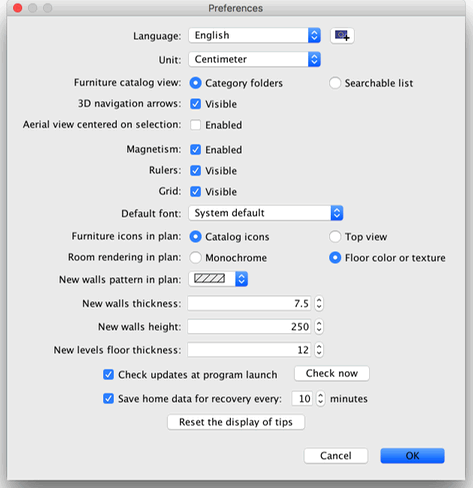
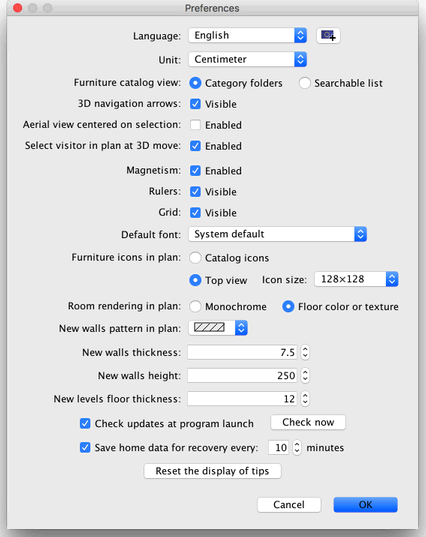
Updated help for version 5.5

diff --git a/trunk/SweetHome3D/src/com/eteks/sweethome3d/viewcontroller/resources/help/fr/editingPreferences.html b/trunk/SweetHome3D/src/com/eteks/sweethome3d/viewcontroller/resources/help/fr/editingPreferences.html
@@ -33,15 +33,29 @@
 	    de Sweet Home 3D et le bouton &agrave; sa droite d'importer des fichiers de langues avec une extensions SH3L.<br>
 	    La liste d&eacute;roulante <i>Unit&eacute;</i> vous permet de choisir l'unit&eacute; utilis&eacute;e
 	    pour dessiner les r&egrave;gles et la grille du plan du
-	    logement, ainsi que pour afficher les longueurs et les aires.	Pour le syst&egrave;me m&eacute;trique, vous pouvez choisir le <i>Millim&egrave;tre</i>, le <i>Centim&egrave;tre</i> ou le  <i>M&egrave;tre</i>, et le syst&egrave;me imp&eacute;rial propose les deux unit&eacute;s suivantes&nbsp;: l'unit&eacute; <i>Pouce/D&eacute;cimales</i> qui affiche une longueur seulement en pouces suivie des d&eacute;cimales de pouce, comme dans <b>250.122&quot;</b> et l'unit&eacute; <i>Pied/Pouce/Fraction</i> qui affiche une longueur en pieds et pouces suivie de la fraction d'un huiti&egrave;me de pouce la plus proche, comme dans <b>20'10&#8539;&quot;</b>. Dans le dernier cas, une partie fractionnaire saisie avec des d&eacute;cimales et une valeur en pouce sup&eacute;rieure ou &eacute;gale &agrave; 12 seront automatiquement converties&nbsp;; par exemple, si vous saisissez <b>15.75</b>, le programme comprendra <b>1'3&#190&quot;</b>, et pour  <b>2'15</b>, ce sera interpr&eacute;t&eacute; comme <b>3'3&quot;</b>. Vous pouvez utiliser aussi le symbole <b>/</b> dans la fraction apr&egrave;s une valeur en pouce, comme dans <b>1 3/4</b>, que le programme interpr&eacute;tera comme <b>1&#190&quot;</b>. Pour les aires, l'unit&eacute; <i>Pied/Pouce/Fraction</i> affiche toujours la valeur la plus proche en pieds carr&eacute;, tandis que l'unit&eacute; <i>Pouce/D&eacute;cimales</i> affiche des d&eacute;cimales 
+	    logement, ainsi que pour afficher les longueurs et les aires.	Pour le syst&egrave;me m&eacute;trique, vous pouvez choisir le <i>Millim&egrave;tre</i>, 
+	    le <i>Centim&egrave;tre</i> ou le  <i>M&egrave;tre</i>, et le syst&egrave;me imp&eacute;rial propose les deux unit&eacute;s suivantes&nbsp;: 
+	    l'unit&eacute; <i>Pouce/D&eacute;cimales</i> qui affiche une longueur seulement en pouces suivie des d&eacute;cimales de pouce, comme dans <b>250.122&quot;</b> 
+	    et l'unit&eacute; <i>Pied/Pouce/Fraction</i> qui affiche une longueur en pieds et pouces suivie de la fraction d'un huiti&egrave;me de pouce la plus proche, 
+	    comme dans <b>20'10&#8539;&quot;</b>. Dans le dernier cas, une partie fractionnaire saisie avec des d&eacute;cimales et une valeur en pouce sup&eacute;rieure 
+	    ou &eacute;gale &agrave; 12 seront automatiquement converties&nbsp;; par exemple, si vous saisissez <b>15.75</b>, le programme comprendra <b>1'3&#190&quot;</b>, 
+	    et pour  <b>2'15</b>, ce sera interpr&eacute;t&eacute; comme <b>3'3&quot;</b>. Vous pouvez utiliser aussi le symbole <b>/</b> dans la fraction apr&egrave;s une valeur en pouce, 
+	    comme dans <b>1 3/4</b>, que le programme interpr&eacute;tera comme <b>1&#190&quot;</b>. Pour les aires, l'unit&eacute; <i>Pied/Pouce/Fraction</i> affiche toujours 
+	    la valeur la plus proche en pieds carr&eacute;, tandis que l'unit&eacute; <i>Pouce/D&eacute;cimales</i> affiche des d&eacute;cimales 
 	    si besoin.</p>
-<p> Les boutons radio <i>Dossiers de cat&eacute;gorie </i>et <i>Liste 
+		<p> Les boutons radio <i>Dossiers de cat&eacute;gorie </i>et <i>Liste 
           avec recherche </i>permettent de choisir le mode d'affichage du catalogue 
-          de meubles dans chaque <a href="ui.html">fen&ecirc;tre Sweet Home 3D</a>.        </p>
-	    <p>	      La bo&icirc;te &agrave; cocher <i>Fl&egrave;ches de navigation 3D</i> permet d'afficher ou non les boutons en forme de fl&egrave;ches d'aide 
+          de meubles dans chaque <a href="ui.html">fen&ecirc;tre Sweet Home 3D</a>.</p>
+	    <p>La bo&icirc;te &agrave; cocher <i>Fl&egrave;ches de navigation 3D</i> permet d'afficher ou non les boutons en forme de fl&egrave;ches d'aide 
           &agrave; la <a href="editing3DView.html">navigation dans la vue 3D</a>.<br>
-          Quand elle est activ&eacute;e, l'option <i>Vue a&eacute;rienne centr&eacute;e sur la s&eacute;lection</i> centrera la vue a&eacute;rienne 3D sur les &eacute;l&eacute;ments s&eacute;lectionn&eacute;s dans le plan 2D. Si aucun &eacute;l&eacute;ment n'est s&eacute;lectionn&eacute; ou si cette option est d&eacute;sactiv&eacute;e, 
-          la vue a&eacute;rienne sera centr&eacute;e sur le mileu du logement, qui peut changer en fonction de son contenu.</p>
+          Quand elle est activ&eacute;e, l'option <i>Vue a&eacute;rienne centr&eacute;e sur la s&eacute;lection</i> centrera 
+          la vue a&eacute;rienne 3D sur les &eacute;l&eacute;ments s&eacute;lectionn&eacute;s dans le plan 2D. 
+          Si aucun &eacute;l&eacute;ment n'est s&eacute;lectionn&eacute; ou si cette option est d&eacute;sactiv&eacute;e, 
+          la vue a&eacute;rienne sera centr&eacute;e sur le mileu du logement, qui peut changer en fonction de son contenu.<br>
+          Quand elle est activ&eacute;e, l'option <i>S&eacute;lection visiteur apr&egrave;s mouvement 3D</i> entra&icirc;nera 
+          une s&eacute;lection et un affichage du visiteur virtuel dans le plan 2D &agrave; chaque fois que vous faites un mouvement 
+          dans la vue 3D en mode <i>Visite virtuelle</i>. D&eacute;s&eacute;lectionnez cette option si vous ne voulez pas perdre 
+          la s&eacute;lection en cours dans le plan et/ou modifier la zone visible du plan &agrave; chaque mouvement dans la vue 3D.</p>
 	    <p>La bo&icirc;te &agrave; cocher <i>Magn&eacute;tisme</i> active ou 
           d&eacute;sactive le magn&eacute;tisme utilis&eacute; dans le plan du 
           logement au cours du positionnement des meubles, et du dessin des murs, des pi&egrave;ces et des cotes.<br>
@@ -50,10 +64,16 @@
           &agrave; gauche du plan.<br>
           La bo&icirc;te &agrave; cocher <i>Grille</i> permet de rendre visible 
           ou invisible la grille affich&eacute;e sous le plan.<br>
-          La liste d&eacute;roulante <i>Police par d&eacute;faut</i> permet de choisir la police de caract&egrave;re utilis&eacute;e pour les textes affich&eacute;s dans le plan (i.e. nom des <a href="editingFurniture.html">meubles</a>, nom et superficie des <a href="editingRooms.html">pi&egrave;ces</a>, longueur des <a href="editingDimensions.html">cotes</a> et police par d&eacute;faut des <a href="addingTexts.html">textes</a>).<br>
+          La liste d&eacute;roulante <i>Police par d&eacute;faut</i> permet de choisir la police de caract&egrave;re utilis&eacute;e 
+          pour les textes affich&eacute;s dans le plan (i.e. nom des <a href="editingFurniture.html">meubles</a>, nom et superficie 
+          des <a href="editingRooms.html">pi&egrave;ces</a>, longueur des <a href="editingDimensions.html">cotes</a> 
+          et police par d&eacute;faut des <a href="addingTexts.html">textes</a>).<br>
           Les boutons radio <i>Ic&ocirc;nes du catalogue</i> et <i>Vue de dessus</i> 
           permettent de choisir comment seront dessin&eacute;s les meubles dans 
-          le plan (voir les images ci-dessous).<br>
+          le plan (voir les images ci-dessous). Quand l'option <i>Vue de dessus</i> est s&eacute;lectionn&eacute;e, la liste d&eacute;roulante 
+          <i>Taille ic&ocirc;nes</i> vous permet de choisir la taille en pixel des ic&ocirc;nes dessin&eacute;es dans le plan 2D. 
+          Une taille plus grande donnera un meilleur r&eacute;sultat dans les plans dessin&eacute;s &agrave; l'&eacute;cran, imprim&eacute;s 
+          et export&eacute;s au format SVG, mais requ&eacute;rera plus de m&eacute;moire pour fonctionner.<br>
           Les boutons radio <i></i><i>Monochrome</i> et <i>Couleur ou texture 
           du plancher</i> permettent de choisir si les pi&egrave;ces doivent &ecirc;tre 
           remplies dans le plan avec la couleur ou de la texture que vous avez 
@@ -64,9 +84,11 @@
 	        une fois que le panneau des pr&eacute;f&eacute;rences sera ferm&eacute;.<br>
           La valeur de la <i>Hauteur des nouveaux murs</i> d&eacute;termine la hauteur des futurs murs.<br>
           La valeur de l'<i>Epaisseur des nouveaux planchers</i> d&eacute;termine l'&eacute;paisseur des planchers des futurs niveaux.</p>
-<p>Si elle est s&eacute;lectionn&eacute;e, l'option <i>V&eacute;rifier les mises &agrave; jour au lancement du programme</i> v&eacute;rifiera si des mises &agrave; jours de Sweet Home 3D sont disponibles ou non &agrave; chaque fois que le programme est  lanc&eacute;, 
-  et affichera des informations sur celles-ci dans une bo&icirc;te de dialogue. Cette option v&eacute;rifie aussi la disponibilit&eacute; de mises &agrave; jours pour les biblioth&egrave;ques de meubles (fichiers SH3F), les biblioth&egrave;ques de textures (fichiers SH3T), les fichiers de langues (fichiers SH3L) et les plug-ins 
-  (fichiers SH3P) que vous avez install&eacute;s, en fonction de leur configuration. </p>	  
+		<p>Si elle est s&eacute;lectionn&eacute;e, l'option <i>V&eacute;rifier les mises &agrave; jour au lancement du programme</i> v&eacute;rifiera si des mises &agrave; jours 
+		  de Sweet Home 3D sont disponibles ou non &agrave; chaque fois que le programme est  lanc&eacute;, 
+  		  et affichera des informations sur celles-ci dans une bo&icirc;te de dialogue. Cette option v&eacute;rifie aussi la disponibilit&eacute; de mises &agrave; jours 
+  		  pour les biblioth&egrave;ques de meubles (fichiers SH3F), les biblioth&egrave;ques de textures (fichiers SH3T), les fichiers de langues (fichiers SH3L) et les plug-ins 
+  		  (fichiers SH3P) que vous avez install&eacute;s, en fonction de leur configuration. </p>	  
 	  <p>La valeur du champ associ&eacute; &agrave; la bo&icirc;te &agrave; 
           cocher <i>Enregistrer les donn&eacute;es de r&eacute;cup&eacute;ration</i> 
           d&eacute;termine le d&eacute;lai en minutes qui s'&eacute;coule entre 
@@ -151,7 +173,8 @@
               <td width="16"><p>&#149;</p></td>
               <td><p>Les  informations sur les mises &agrave; jour ne peuvent &ecirc;tre obtenues que si votre ordinateur a acc&egrave;s &agrave; Internet. 
               En cas de doute, cliquez sur le bouton <i>V&eacute;rifier maintenant</i> pour afficher les mises &agrave; jour disponibles, 
-              ou un message sp&eacute;cifiant qu'aucune mise &agrave; jour n'est disponible, ou un message d'erreur stipulant que les mises &agrave; jour n'ont pu &ecirc;tre lues.</p></td>
+              ou un message sp&eacute;cifiant qu'aucune mise &agrave; jour n'est disponible, ou un message d'erreur stipulant que les mises &agrave; jour 
+              n'ont pu &ecirc;tre lues.</p></td>
             </tr>
           </table></td>
 	</tr>

diff --git a/trunk/SweetHome3D/src/com/eteks/sweethome3d/viewcontroller/resources/help/fr/editingFurniture.html b/trunk/SweetHome3D/src/com/eteks/sweethome3d/viewcontroller/resources/help/fr/editingFurniture.html
@@ -72,14 +72,15 @@
                       <td nowrap><p>1.</p>
                       </td>
                       <td><p>L'indicateur de rotation montre le coin que vous pouvez glisser-d&eacute;poser pour tourner le meuble
-                          s&eacute;lectionn&eacute;.</p>
+                          s&eacute;lectionn&eacute; autour de l'axe vertical.</p>
                       </td>
                     </tr>
                     <tr valign="top">
                       <td nowrap><p>2.</p>
                       </td>
                       <td><p>L'indicateur d'&eacute;l&eacute;vation montre le coin que vous pouvez glisser-d&eacute;poser pour monter ou descendre
-                          le meuble s&eacute;lectionn&eacute; (par rapport &agrave; l'&eacute;l&eacute;vation du niveau auquel le meuble a &eacute;t&eacute; ajout&eacute; si le logement contient <a href="addingLevels.html">plusieurs niveaux</a>).</p>
+                          le meuble s&eacute;lectionn&eacute; (par rapport &agrave; l'&eacute;l&eacute;vation du niveau auquel le meuble a 
+                          &eacute;t&eacute; ajout&eacute; si le logement contient <a href="addingLevels.html">plusieurs niveaux</a>).</p>
                       </td>
                     </tr>
                     <tr valign="top">
@@ -87,10 +88,10 @@
                       </td>
                       <td><p>L'indicateur de hauteur montre le coin que vous pouvez 
                   glisser-d&eacute;poser pour modifier la hauteur du meuble s&eacute;lectionn&eacute;.<br>
-                  Pour les lumi&egrave;res (soit une source lumineuse ou une lampe 
-                  contenant des sources lumineuses), cet indicateur devient un 
-                  variateur de lumi&egrave;re. Si vous voulez modifier la hauteur 
-                  de cette lumi&egrave;re, &eacute;ditez ses attributs comme indiqu&eacute; 
+                  Si l'angle de rotation du meuble autour d'un axe horizontal n'est pas nul, cet indicateur vous permet de modifier 
+                  cet angle plut&ocirc;t que la hauteur du meuble. Pour les lumi&egrave;res (soit une source lumineuse ou une lampe 
+                  contenant des sources lumineuses), cet indicateur devient un variateur de lumi&egrave;re. Si vous voulez modifier la hauteur 
+                  de ces objets, &eacute;ditez ses attributs comme indiqu&eacute; 
                   dans le paragraphe suivant.</p>
                 </td>
                     </tr>
@@ -98,7 +99,9 @@
                       <td nowrap><p>4.</p>
                       </td>
                       <td><p>L'indicateur de taille montre le coin que vous pouvez glisser-d&eacute;poser pour modifier
-                          la largeur et la profondeur du meuble s&eacute;lectionn&eacute;.</p>
+                          la largeur et la profondeur du meuble s&eacute;lectionn&eacute;. L'utilisation de cet indicateur sur un 
+                          meuble pivot&eacute; autour d'un axe horizontal ou en maintenant la touche <i>Majuscule</i> enfonc&eacute;e
+                          modifiera proportionnellement la largeur, la profondeur et la hauteur du meuble s&eacute;lectionn&eacute;.</p>
                       </td>
                     </tr>
                   </table>
@@ -115,13 +118,14 @@ Les meubles modifi&eacute;s avec la souris sont dessin&eacute;s simultan&eacute;
 	  <p>Un meuble peut &ecirc;tre aussi modifi&eacute;  gr&acirc;ce &agrave; son panneau, en double-cliquant sur ce meuble dans le plan
 	    du logement ou dans la liste des meubles, ou en choisissant <i>Meubles &gt; Modifier...</i> apr&egrave;s l'avoir s&eacute;lectionn&eacute;.</p>
 	    <p align="center"><img src="images/editingFurniture.png" alt="Modification de meubles"></p>
-	    <p>Dans le panneau du meuble, vous pouvez changer son nom, son angle de 
+	    <p>Dans le panneau du meuble, vous pouvez changer son nom, ses angles de 
           rotation, l'abscisse (X) et l'ordonn&eacute;e (Y) de son centre, l'&eacute;l&eacute;vation 
           de sa face inf&eacute;rieure par rapport au sol, sa largeur, sa profondeur, 
           sa hauteur, sa couleur ou sa texture, sa brillance, sa visibilit&eacute;, 
           si son nom doit &ecirc;tre affich&eacute; dans le plan ou non, et le 
           fait que la forme de son mod&egrave;le 3D soit celle par d&eacute;faut 
-          ou son miroir. <br>
+          ou son miroir. Il n'est pas possible de pivoter les portes, les fen&ecirc;tres, les escaliers et les groupes 
+          autour d'un axe horizontal.<br>
 	     Si vous rendez un meuble invisible, il ne sera pas dessin&eacute; dans le plan du logement et dans
 	     la vue 3D, mais il continuera d'appara&icirc;tre dans
 	    la liste des meubles pour vous permettre de le rendre &agrave; nouveau visible ult&eacute;rieurement.

diff --git a/trunk/SweetHome3D/src/com/eteks/sweethome3d/viewcontroller/resources/help/en/editingFurniture.html b/trunk/SweetHome3D/src/com/eteks/sweethome3d/viewcontroller/resources/help/en/editingFurniture.html
@@ -65,7 +65,8 @@
                     <tr valign="top">
                       <td nowrap><p>1.</p>
                       </td>
-                      <td><p>The rotation indicator shows the corner you can drag  to rotate  the selected piece.</p>
+                      <td><p>The rotation indicator shows the corner you can drag  to rotate  the selected piece 
+                      around the vertical axis.</p>
                       </td>
                     </tr>
                     <tr valign="top">
@@ -81,17 +82,19 @@
                       </td>
                       <td><p>The height indicator shows the corner you can drag 
                   to change the height of the selected piece.<br>
-                  If the piece of furniture is a light source or a lamp containing 
+                    If the rotation angle of the  piece around an horizontal axis isn't zero, this indicator lets you update 
+                    this angle rather than the height of the  piece. If the piece of furniture is a light source or a lamp containing 
                   light sources, this indicator is a light dimmer. If you want 
-                  to modify the height of such objects, edit its attributes as indicated 
+                  to modify the height  of such objects, edit its attributes as indicated 
                   in the next paragraph.</p>
-                      </td>
+                  	  </td>
                     </tr>
                     <tr valign="top">
                       <td nowrap><p>4.</p>
                       </td>
                       <td><p>The size indicator shows the corner you can drag  to change the width and the depth
-                          of the selected piece.</p>
+                          of the selected piece. Dragging this indicator  on a horizontally rotated piece or while pressing the <i>Shift</i> 
+                          key will proportionally update the width, depth and height of the selected piece. </p>
                       </td>
                     </tr>
                   </table>
@@ -111,9 +114,9 @@
 	    <p>In the furniture pane, you may change its name, the abscissa (X) and 
           the ordinate (Y) of its center, the elevation of its bottom from the 
           floor, its width, its depth, its height, its color or its texture, its 
-          shininess, its visibility, its rotation angle, whether its name should 
+          shininess, its visibility, its rotation angles, whether its name should 
           be displayed in plan or not, and whether its 3D model shape should be 
-          mirrored.<br>
+          mirrored. It's not possible to rotate doors, windows, staircases and groups around an horizontal axis.<br>
 	    If you make a piece invisible, it won't be drawn in the home plan
 	    and the 3D view, but it will
 	    still appear in the furniture list to let you make it visible again later.<br>

diff --git a/trunk/SweetHome3D/src/com/eteks/sweethome3d/viewcontroller/resources/help/en/editingPreferences.html b/trunk/SweetHome3D/src/com/eteks/sweethome3d/viewcontroller/resources/help/en/editingPreferences.html
@@ -54,8 +54,12 @@
         view</a>.<br>
         When enabled, the  <i>Aerial view centered on selection</i> option will center the 3D aerial view 
         on the selected items in the 2D plan. If no item is selected or if this option is disabled, 
-        the aerial view will be centered on the center of the home, that may vary according to the items it contains. </p>
-        <p> The <i>Magnetism</i> check box enables or disables the magnetism used 
+        the aerial view will be centered on the center of the home, that may vary according to the items it contains. <br>
+        When enabled, the <i>Select visitor in plan at 3D move</i> option will	select and display the virtual visitor 
+        drawn in the 2D plan each time you make a move in the 3D view in <i>Virtual visit</i> mode. 
+        You should unselect this option if you don't want to lose the current selection in the plan and/or change 
+        the visible part of the plan at each move in the 3D view.</p>
+      <p>The <i>Magnetism</i> check box enables or disables the magnetism used 
           in the home plan during <a href="drawingWalls.html">walls drawing</a> 
           and <a href="editingFurniture.html">furniture placing</a>.<br>
           The <i>Rulers</i> check box allows to make the rulers around the plan 
@@ -66,7 +70,10 @@
         (i.e. <a href="editingFurniture.html">furniture</a> name, <a href="editingRooms.html">rooms</a> name and area, 
         <a href="editingDimensions.html">dimension lines</a> length and default font of free <a href="addingTexts.html">texts</a>).<br>
           The <i>Catalog icons</i> and <i>Top view</i> radio buttons let you choose 
-          how the furniture should be drawn in the plan (see images below).<br>
+          how the furniture should be drawn in the plan (see images below). When the <i>Top view</i> option is selected, 
+          the <i>Icon size</i> drop down list lets you select the size in pixels of the icons drawn in the 2D plan. 
+          Higher sizes will give nicer plans when drawn at screen, printed and exported to SVG format, 
+          but will require more memory to work.<br>
           The <i>Monochrome</i> and <i>Floor color or texture</i> radio buttons 
           let you choose whether rooms should be drawn in plan filled with the 
           color or texture you chose for their floor, or with a grey color (printed 

diff --git a/trunk/SweetHome3D/src/com/eteks/sweethome3d/viewcontroller/resources/help/fr/creatingHome.html b/trunk/SweetHome3D/src/com/eteks/sweethome3d/viewcontroller/resources/help/fr/creatingHome.html
@@ -25,13 +25,15 @@
 </table>
 <table width="100%" border="0" cellspacing="0" cellpadding="3">
 	<tr>
-	<td><p>Pour cr&eacute;er un logement,
-	      utilisez simplement le logement cr&eacute;&eacute; par d&eacute;faut au lancement de Sweet Home 3D ou choisissez <i>Fichier &gt; Nouveau</i>.<br>
+	<td><p>Pour cr&eacute;er un logement, utilisez simplement le document vide cr&eacute;&eacute; par d&eacute;faut 
+		  au lancement de Sweet Home 3D, choisissez le menu <i>Fichier &gt; Nouveau</i> ou s&eacute;lectionnez 
+		  une des d&eacute;mos disponibles dans la bo&icirc;te de dialogue affich&eacute;e par le menu 
+		  <i>Fichier &gt; Nouveau avec d&eacute;mo...</i>.<br>
           Une fois qu'un logement est cr&eacute;&eacute;, vous pouvez <a href="drawingWalls.html">dessiner 
           ses murs</a>, y <a href="addingFurniture.html">ajouter des portes, des 
           fen&ecirc;tres et des meubles</a>, <a href="drawingRooms.html">d&eacute;finir 
-          ses pi&egrave;ces</a> &agrave; partir de ses murs, cr&eacute;er des <a href="addingLevels.html">niveaux suppl&eacute;mentaires</a>, ajuster sa <a href="editingCompass.html">position 
-          g&eacute;ographique</a>, ajouter <a href="drawingDimensions.html">des 
+          ses pi&egrave;ces</a> &agrave; partir de ses murs, cr&eacute;er des <a href="addingLevels.html">niveaux suppl&eacute;mentaires</a>, 
+          ajuster sa <a href="editingCompass.html">position g&eacute;ographique</a>, ajouter <a href="drawingDimensions.html">des 
           cotes</a>, dessiner des <a href="drawingPolylines.html">lignes ou des courbes</a> et ajouter <a href="addingTexts.html">des textes</a> sur son plan. 
           Comme la vue 3D est toujours&nbsp;synchronis&eacute;e avec les modifications 
           effectu&eacute;es dans le plan du logement, n'h&eacute;sitez pas &agrave; 

diff --git a/trunk/SweetHome3D/src/com/eteks/sweethome3d/viewcontroller/resources/help/en/creatingHome.html b/trunk/SweetHome3D/src/com/eteks/sweethome3d/viewcontroller/resources/help/en/creatingHome.html
@@ -27,7 +27,9 @@
 <table width="100%" border="0" cellspacing="0" cellpadding="3">
 	<tr>
 	<td><p>To create a  home,
-	      simply use the default home created at Sweet Home 3D launch or choose <i>File &gt; New</i>.<br>
+	      simply use the default empty document created at Sweet Home 3D launch, 
+	      choose <i>File &gt; New</i> or select one of the demos available in the dialog box 
+	      displayed by <i>File &gt; New from demo</i>.<br>
           Once a home is created, you may <a href="drawingWalls.html">draw its 
           walls</a>, <a href="addingFurniture.html">add doors, windows and furniture</a> 
           to it, <a href="drawingRooms.html">define its rooms</a> from the drawn walls, 
